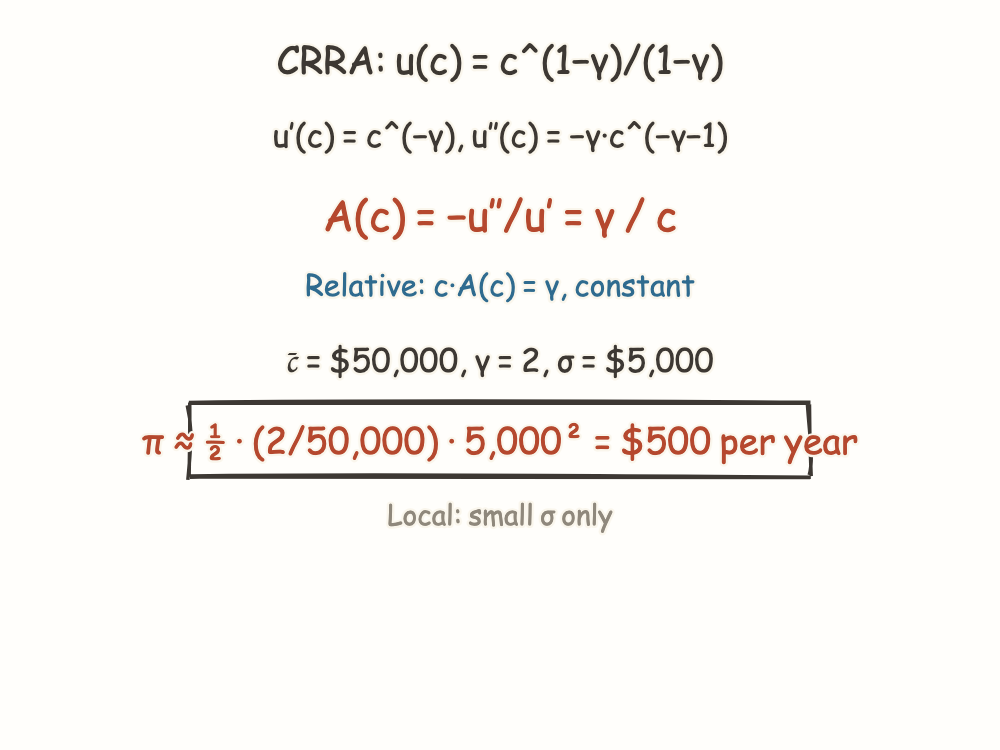
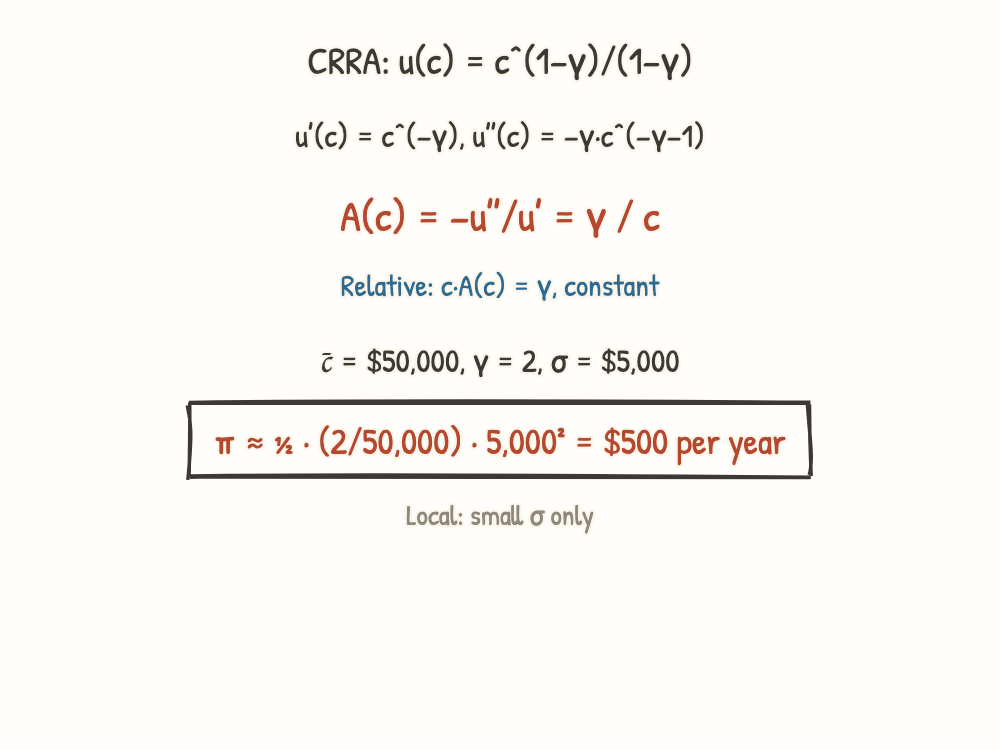
taylor-series-and-the-economics-of: quiet end page

diff --git a/taylor-series-and-the-economics-of/index.html b/taylor-series-and-the-economics-of/index.html
@@ -23,6 +23,7 @@
   .join .privacy { font-size: 0.85rem; opacity: 0.7; margin: 0.5rem 0 0; }
 </style>
 <h1>Taylor Series and the Economics of Approximation</h1>
+<p class="app"><a href="https://www.drawcast.app/w/taylor-series-and-the-economics-of">Open in drawcast — the whole course and your progress →</a></p>
 <p class="intro">Three lectures on why economists spend so much of their lives replacing true functions with polynomials. We build the Taylor expansion carefully, then watch its second-order term become risk aversion and its first-order term become nearly all of modern macro.</p>
 <section class="join">
 <p><b>Join this course</b> — it keeps track of progress for signed-in learners: what you have opened, finished and answered, for you and the course's teachers.</p>
@@ -34,5 +35,5 @@
 <li><span class="n">2</span><a class="t" href="https://drawcast.app/#gh=hmelberg/dcast/taylor-series-and-the-economics-of/what-is-the-second-derivative-doing-in.cast">What is the second derivative doing in the utility function?</a><ul class="q"><li>Expand u(c) around mean consumption c̄: why does the first-order term vanish in expectation and leave curvature alone with the variance?</li><li>How does that one term become the Arrow–Pratt measure A(c) = −u''/u', and why is the level of u irrelevant to it?</li><li>What does the certainty equivalent look like once we accept a quadratic approximation — and what have we quietly assumed about skewness and fat tails by stopping at second order?</li><li>The equity premium puzzle: given the observed US premium of roughly six percentage points a year, what γ does the second-order argument demand, and should we blame the preference or the approximation?</li></ul></li>
 <li><span class="n">3</span><a class="t" href="https://drawcast.app/#gh=hmelberg/dcast/taylor-series-and-the-economics-of/is-log-linearizing-around-the-steady.cast">Is log-linearizing around the steady state a technique or a bet?</a><ul class="q"><li>Why do macroeconomists write x̂ = ln(x/x̄), and in what sense is that just a first-order Taylor expansion wearing a hat?</li><li>Walk the Euler equation of our CRRA household from its nonlinear form to its linearized form — which terms survive and which are declared second-order small?</li><li>If first-order approximations can rank welfare across policies incorrectly, and the zero lower bound is a kink rather than a smooth curve, when does the local polynomial stop being an honest model?</li><li>First-order, second-order, or global solution methods — what is actually being traded away at each step?</li></ul></li>
 </ol>
-<footer>Made with <a href="https://drawcast.app/">drawcast</a></footer>
+<footer>Made with <a href="https://www.drawcast.app/">drawcast</a></footer>
 </html>

diff --git a/index.html b/index.html
@@ -2,7 +2,7 @@
 <html lang="en">
 <meta charset="utf-8">
 <meta name="viewport" content="width=device-width,initial-scale=1">
-<title>Dataanalyse i microdata.no: et skriptkurs</title>
+<title>Taylor Series and the Economics of Approximation</title>
 <style>
   :root { color-scheme: light dark; }
   body { max-width: 44rem; margin: 3rem auto; padding: 0 1.25rem;
@@ -24,12 +24,12 @@
 </style>
 <h1>Courses</h1>
 <ol>
-<li><a class="t" href="taylor-series-and-the-economics-of/">Taylor Series and the Economics of Approximation</a> <span class="soon">updated 2026-10-03</span></li>
 <li><a class="t" href="registerdata-i-praksis-python-og-pandas/">Register data in practice: Python and pandas on NPR, the Norwegian drug register and HELFO</a> <span class="soon">updated 2026-10-03</span></li>
 <li><a class="t" href="understanding-the-qaly/">Understanding the QALY: Definition, Calculation, and Debates</a> <span class="soon">updated 2026-10-03</span></li>
 <li><a class="t" href="causal-inference-in-economics-evidence-from-health-and-health-care/">Causal Inference in Economics: Evidence from Health and Health Care</a> <span class="soon">updated 2026-10-03</span></li>
 <li><a class="t" href="health-technology-assessment-deciding/">Health Technology Assessment: Deciding What a Health System Should Buy</a> <span class="soon">updated 2026-10-03</span></li>
 <li><a class="t" href="microdata/">Dataanalyse i microdata.no: et skriptkurs</a> <span class="soon">updated 2026-10-05</span></li>
+<li><a class="t" href="taylor-series-and-the-economics-of/">Taylor Series and the Economics of Approximation</a> <span class="soon">updated 2026-10-23</span></li>
 </ol>
-<footer>Made with <a href="https://drawcast.app/">drawcast</a></footer>
+<footer>Made with <a href="https://www.drawcast.app/">drawcast</a></footer>
 </html>

diff --git a/README.md b/README.md
@@ -1,12 +1,12 @@
 # Courses
 
-- [Taylor Series and the Economics of Approximation](taylor-series-and-the-economics-of/) — updated 2026-10-03
 - [Register data in practice: Python and pandas on NPR, the Norwegian drug register and HELFO](registerdata-i-praksis-python-og-pandas/) — updated 2026-10-03
 - [Understanding the QALY: Definition, Calculation, and Debates](understanding-the-qaly/) — updated 2026-10-03
 - [Causal Inference in Economics: Evidence from Health and Health Care](causal-inference-in-economics-evidence-from-health-and-health-care/) — updated 2026-10-03
 - [Health Technology Assessment: Deciding What a Health System Should Buy](health-technology-assessment-deciding/) — updated 2026-10-03
 - [Dataanalyse i microdata.no: et skriptkurs](microdata/) — updated 2026-10-05
+- [Taylor Series and the Economics of Approximation](taylor-series-and-the-economics-of/) — updated 2026-10-23
 
 ---
 
-Made with [drawcast](https://drawcast.app/).
+Made with [drawcast](https://www.drawcast.app/).

diff --git a/taylor-series-and-the-economics-of/README.md b/taylor-series-and-the-economics-of/README.md
@@ -20,4 +20,4 @@ Three lectures on why economists spend so much of their lives replacing true fun
 
 ---
 
-Made with [drawcast](https://drawcast.app/).
+Made with [drawcast](https://www.drawcast.app/).
